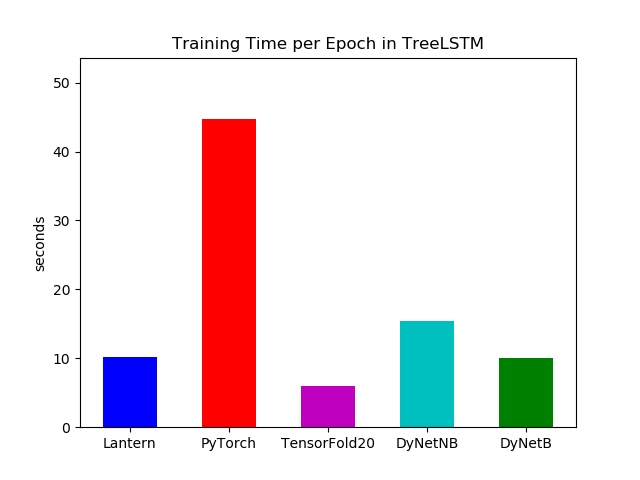
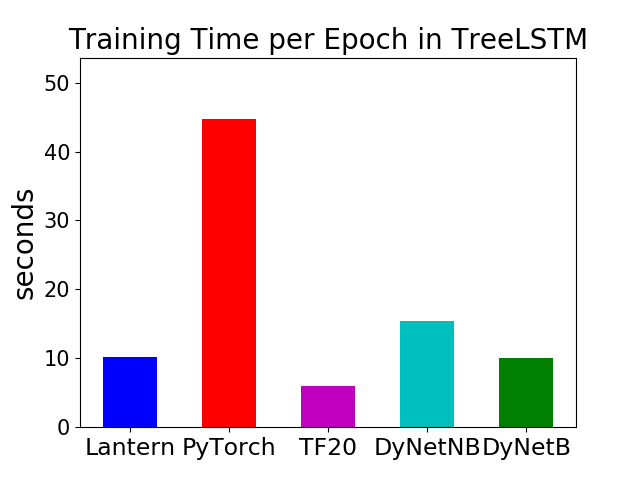
adjust plot font size

diff --git a/src/out/PLDI19evaluation/plot.py b/src/out/PLDI19evaluation/plot.py
@@ -32,7 +32,7 @@ def getColor(label):
     return 'r'
   if label == 'TensorFlow':
     return 'y'
-  if label == 'TensorFold' or label == 'TensorFold20':
+  if label == 'TensorFold' or label == 'TensorFold20' or label == 'TF20':
     return 'm'
   if label == 'DyNet' or label == 'DyNetB':
     return 'g'
@@ -87,13 +87,14 @@ def plot(files, model):
   for i in range(N):
     ps[i].set_facecolor(getColor(labels[i]))
   ax.set_xticks(ind)
-  ax.set_xticklabels(labels)
+  ax.set_xticklabels(labels, fontsize = 17)
+  ax.tick_params(axis='y', labelsize = 15)
   ax.set_ylim([0, max(loopTimes) * 1.2])
-  ax.set_ylabel("seconds")
+  ax.set_ylabel("seconds", fontsize = 20)
   if step_desc == "1 epoch":
-    ax.set_title("Training Time per Epoch in {}".format(model))
+    ax.set_title("Training Time per Epoch in {}".format(model), fontsize=20)
   else:
-    ax.set_title("Training Time of {} in {}".format(step_desc, model))
+    ax.set_title("Training Time of {} in {}".format(step_desc, model), fontsize=20)
   pylab.savefig(save_dir + model + '.png')
 
 if __name__ == "__main__":
